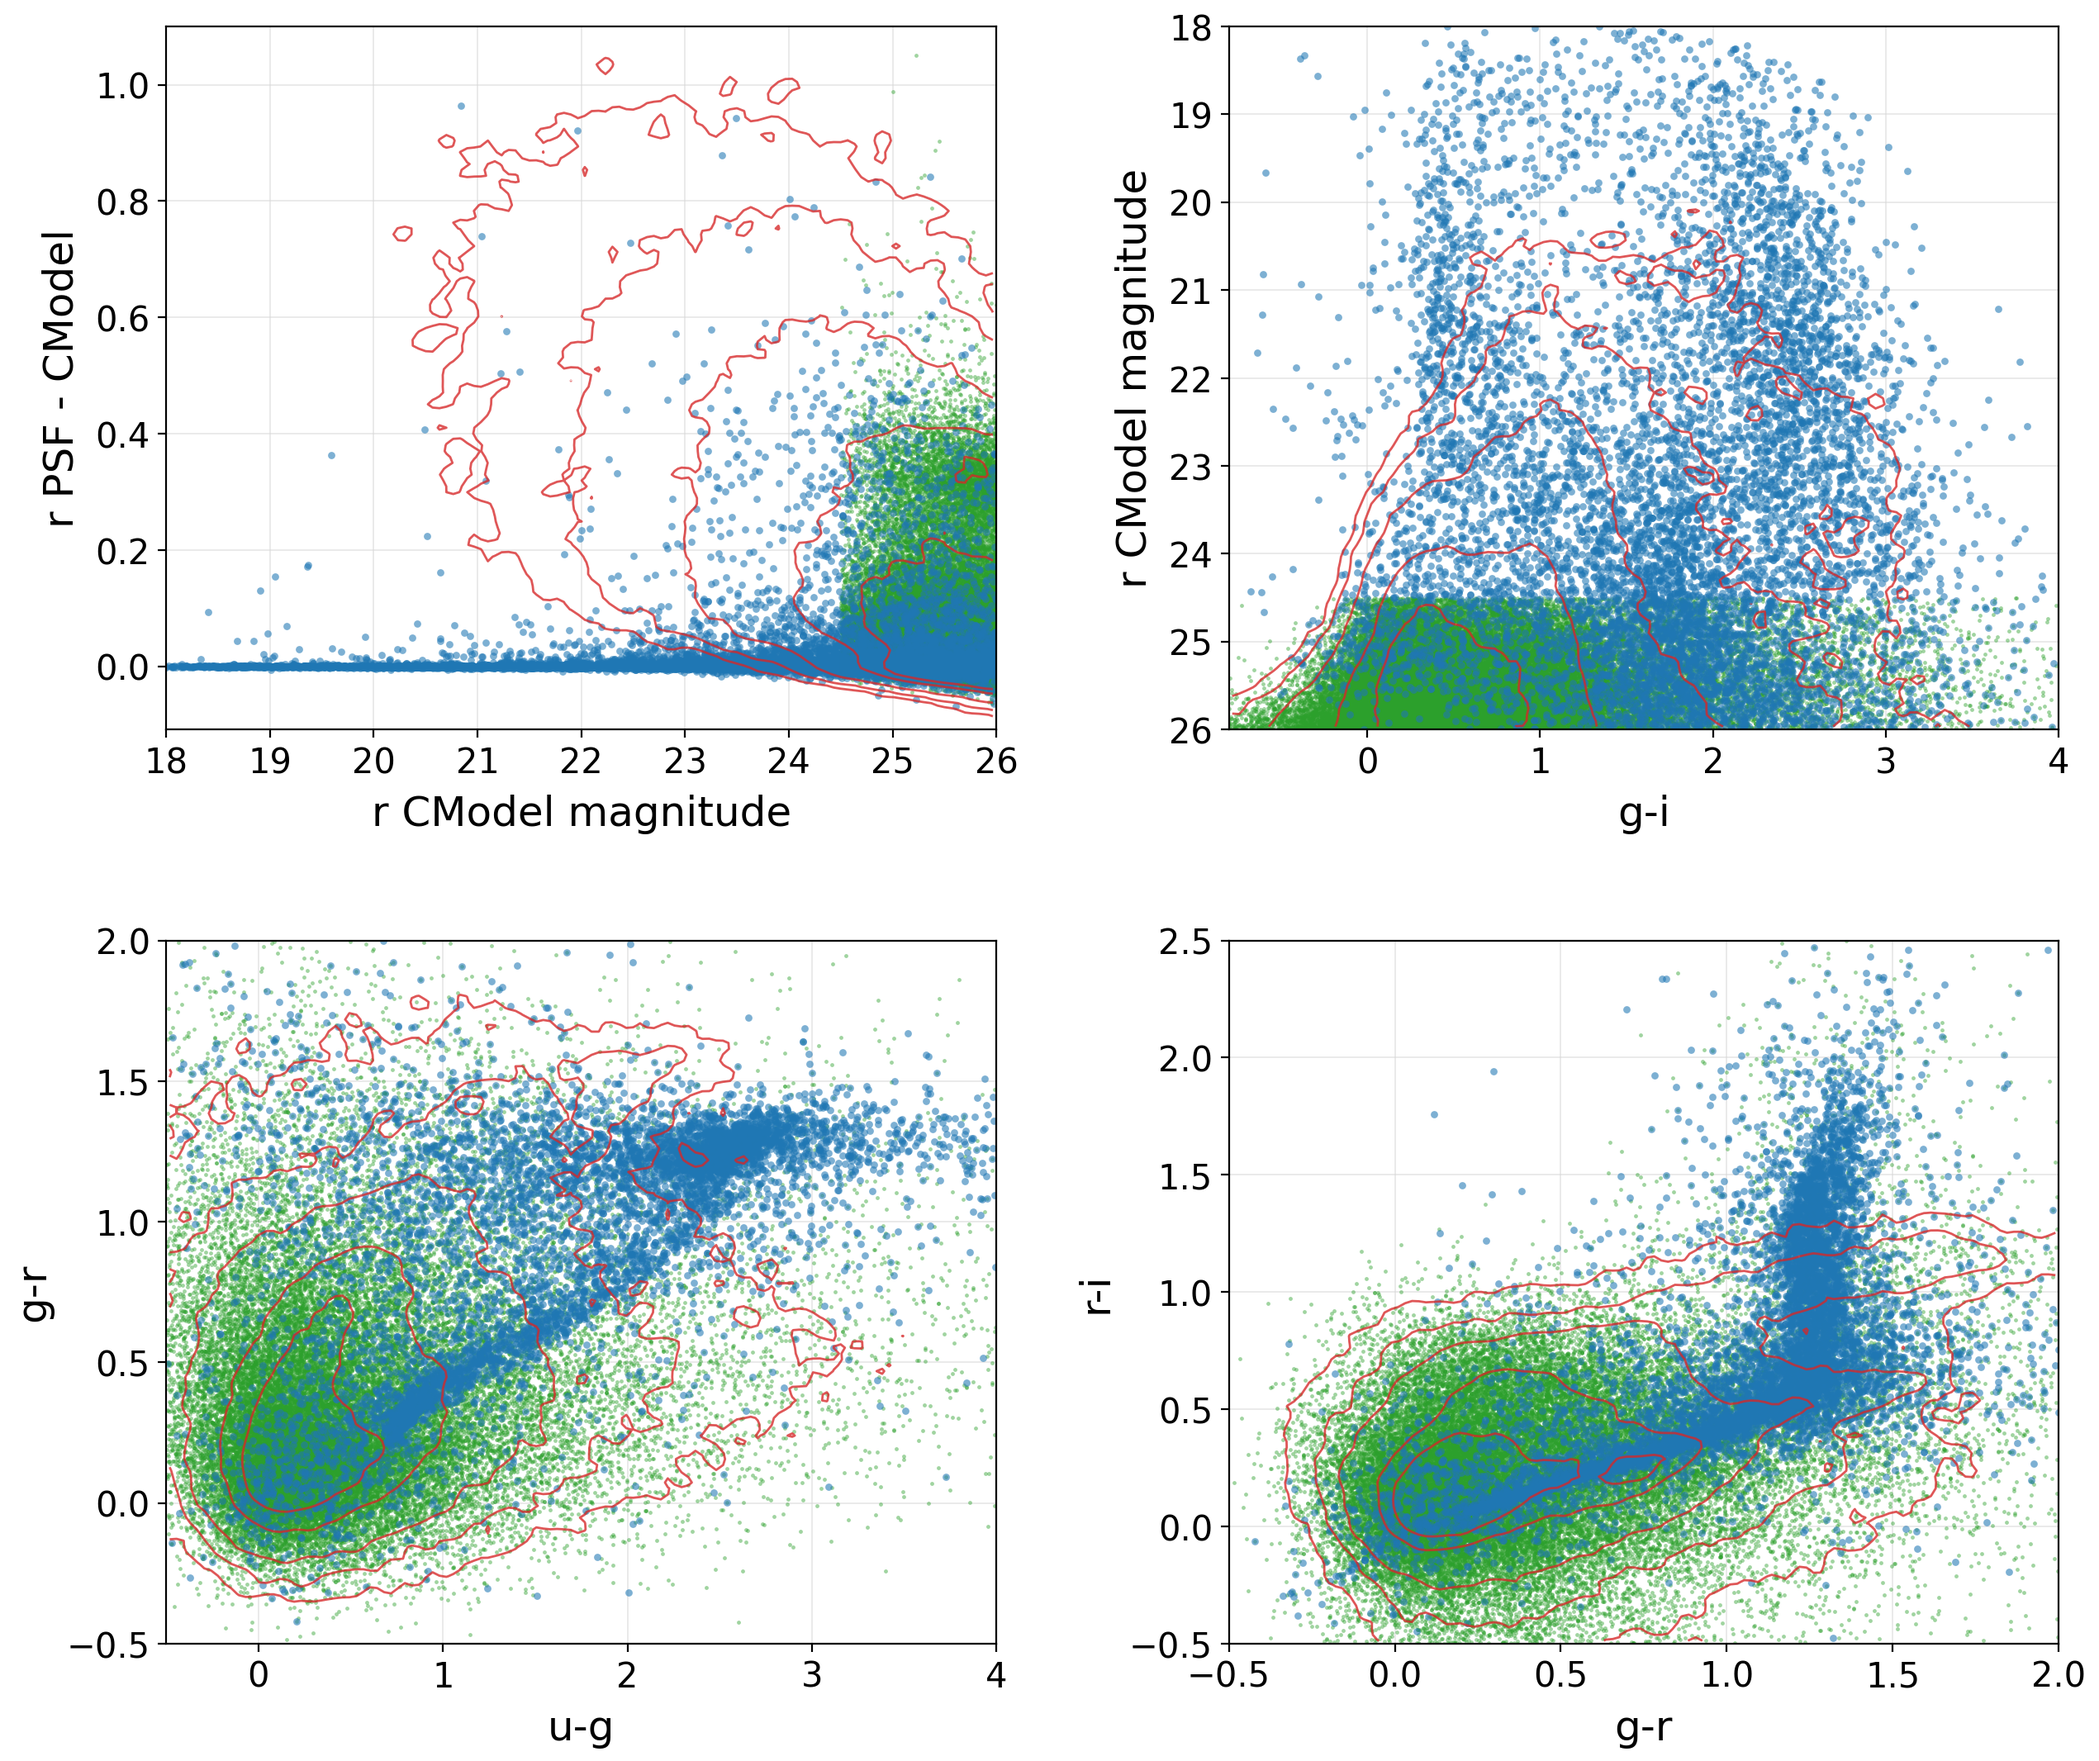
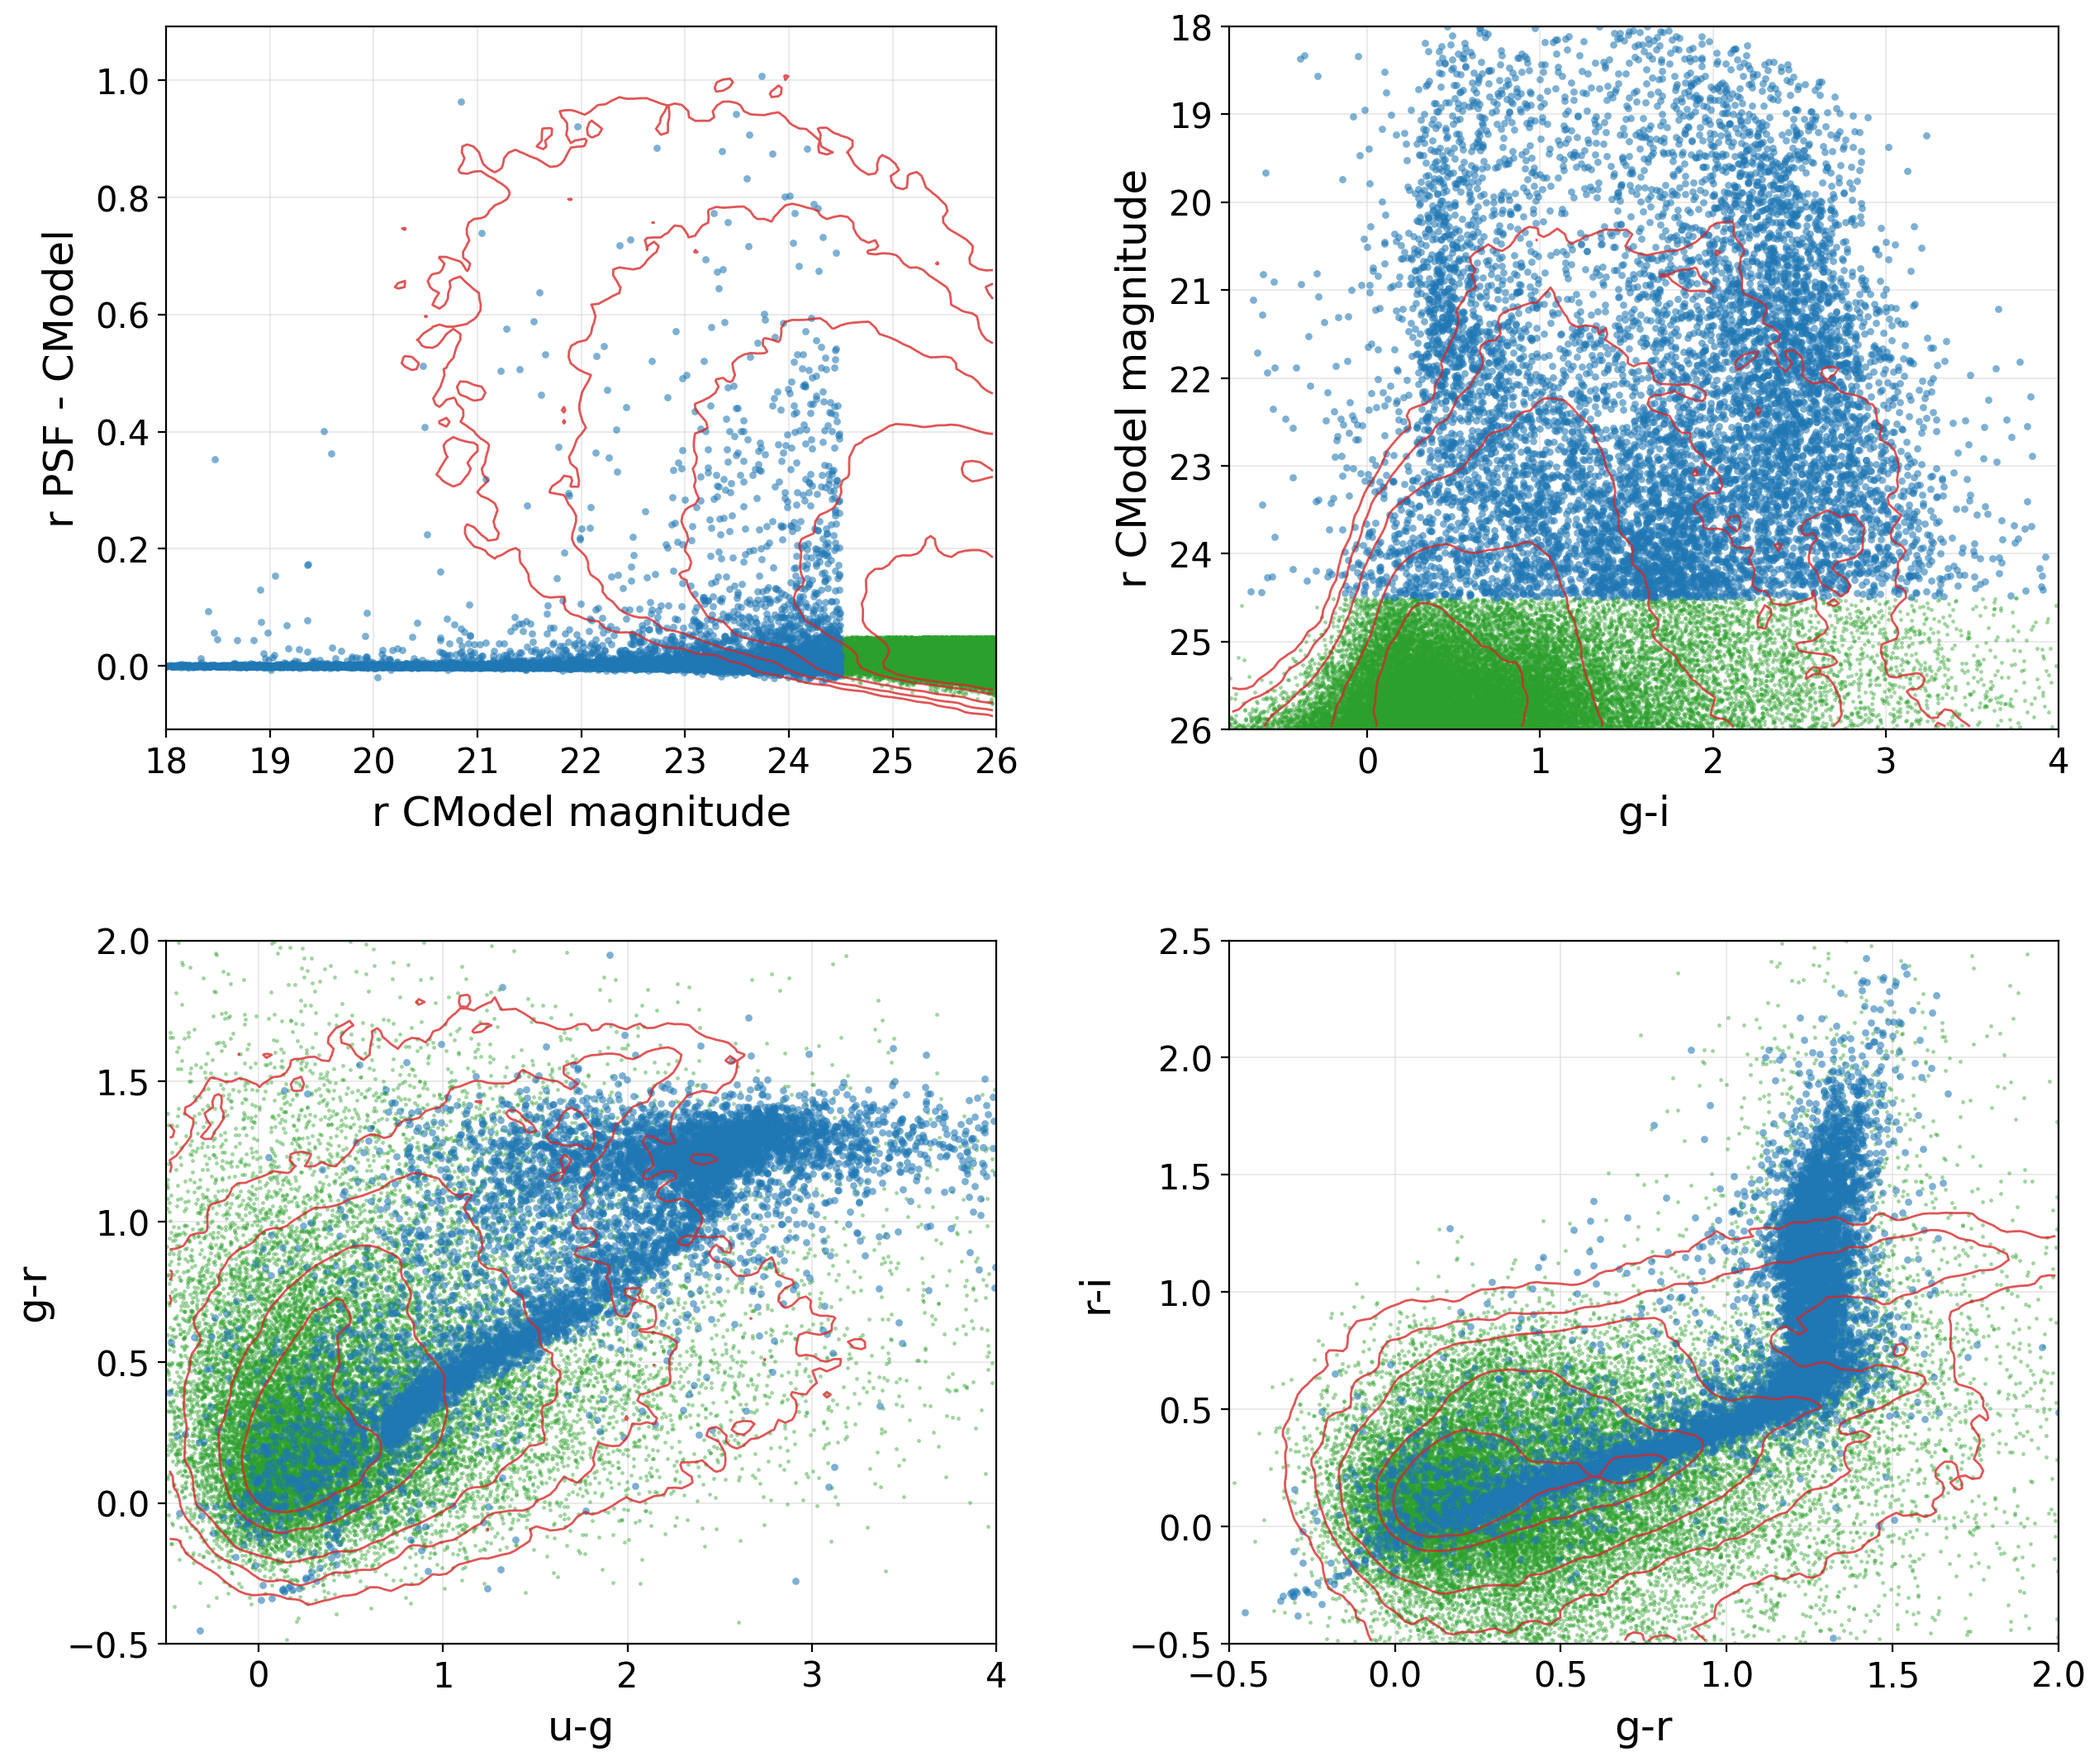
edition on fig 3

diff --git a/datasets.tex b/datasets.tex
@@ -114,8 +114,8 @@ quasars than of main sequence stars (for a detailed discussion of the blue star 
 \begin{figure*}
  \centering
  \includegraphics[width=\textwidth]{fig03_truth_morphology_color.png}
- \caption{The distribution of stars (blue dots) and galaxies (red countours), classified using HST labels, in various infomative
- diagrams. Green points show Rubin DP2 sources classified as unresolved ($\mathrm{extendedness}_r=0$) with $r$-band CModel magnitude $>24.5$. The CModel-magnitude based colors are corrected for the ISM dust extinction, while the $r$-band CModel magnitude is not.
+ \caption{The distribution of stars with $r$-band CModel magnitude $<24.5$(blue dots) and galaxies (red countours), classified using HST labels, in various infomative
+ diagrams. Green points show Rubin DP2 sources classified as unresolved ($\mathrm{extendedness}_r=0$) with $r$-band CModel magnitude $24.5 < r <26$ and \(m_{\mathrm{PSF}} - m_{\mathrm{CModel}}\) $<0.05$. The CModel-magnitude based colors are corrected for the ISM dust extinction, while the $r$-band CModel magnitude is not.
  The top left panel shows the \(\Delta m = m_{\mathrm{PSF}} - m_{\mathrm{CModel}}\) vs. \(m_{\mathrm{CModel}}\) diagram, where
  stars form a narrow sequence centered on \(\Delta m \approx 0\) and for galaxies \(\Delta m > 0 \). 
  The top right panel shows the $r$ vs. $g-i$ color magnitude diagram and two bottom panels show
